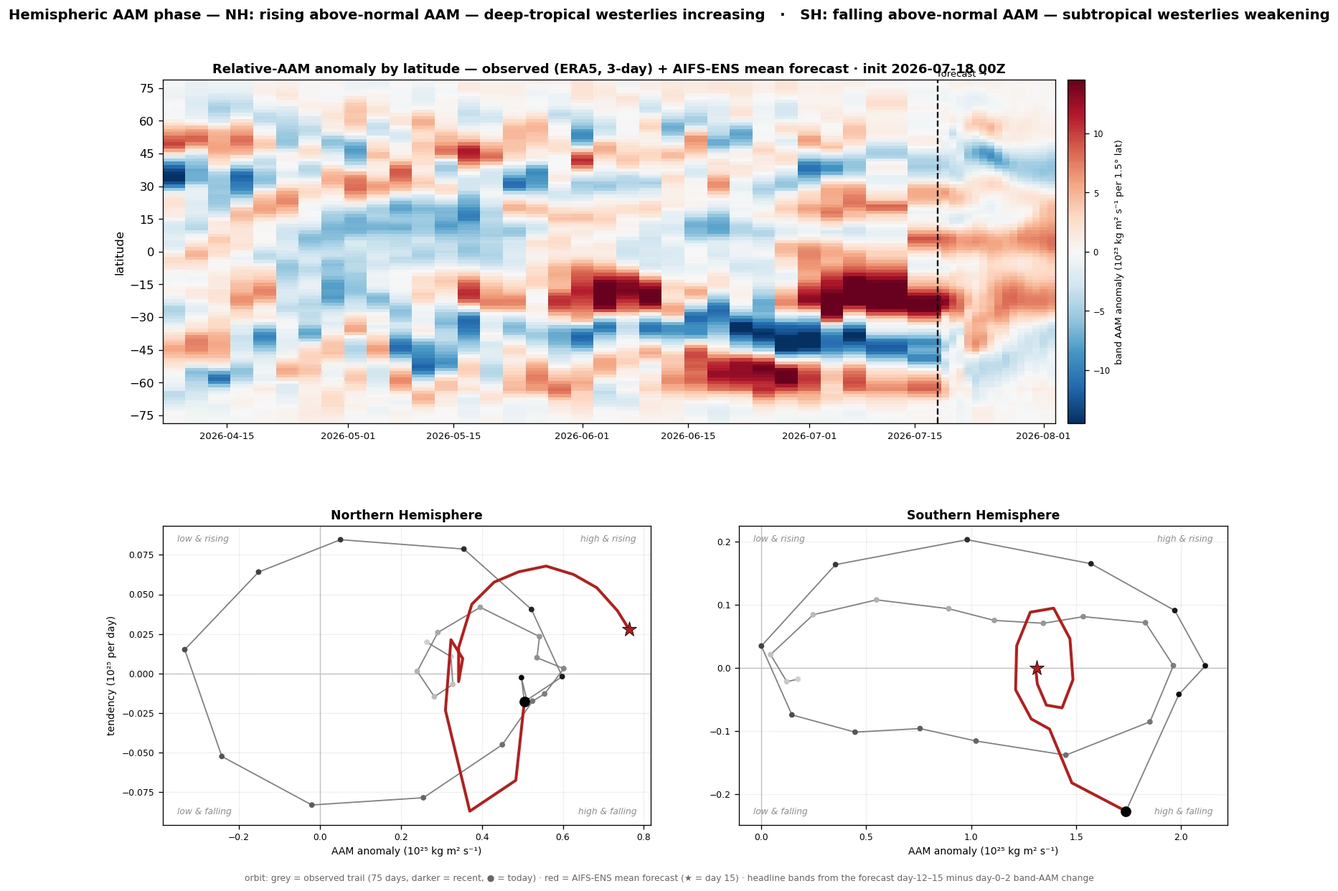
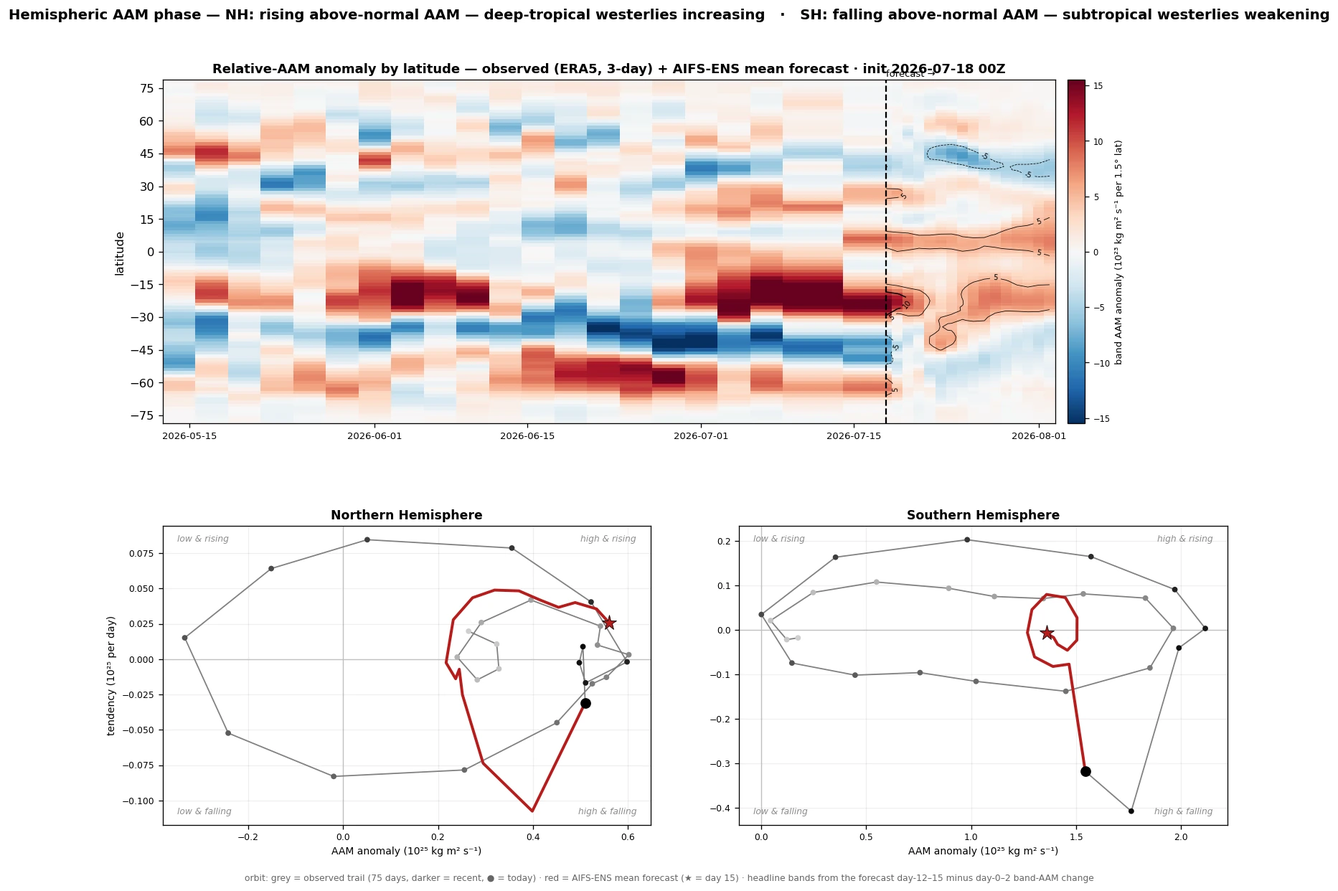
AAM phase: 60-day window (more forecast detail) + contours on the forecast segment

diff --git a/enso-analogs.html b/enso-analogs.html
@@ -564,7 +564,7 @@
         <h2>This Event vs. 1997, 2015 &amp; 2023</h2>
         <p>Niño-3.4 evolution (7-day running mean) through each event's development year and the next. Bold lines are <b>RONI</b>, the relative index (Niño-3.4 minus the 20&deg;S&ndash;20&deg;N tropical-mean anomaly), which removes the rising warming background so events decades apart are comparable; faint dotted lines are the raw <b>ONI</b> for reference. The current event is red. Note how 2015's record ONI shrinks toward 1997 once the background is removed.</p>
       </div>
-      <div class="img-wrap"><img src="assets/sst/events_nino34.webp?v=7ab0bfa0eba4" alt="Niño-3.4 RONI vs ONI evolution: current event vs 1997/2015/2023" loading="lazy"></div>
+      <div class="img-wrap"><img src="assets/sst/events_nino34.webp?v=604393ef9c7a" alt="Niño-3.4 RONI vs ONI evolution: current event vs 1997/2015/2023" loading="lazy"></div>
       <div class="chart-card-footer"><span class="chart-sources">OISST v2.1 daily &middot; 7-day mean &middot; RONI = Niño-3.4 &minus; 20&deg;S&ndash;20&deg;N mean</span></div>
     </div>
 
@@ -574,7 +574,7 @@
         <h2>El Niño Flavor: Niño Regions vs. Analogs</h2>
         <p>Relative Niño-1+2 / 3 / 3.4 / 4 anomalies (7-day mean, each minus the 20&deg;S&ndash;20&deg;N tropical mean) at the same calendar day as the latest data, for the current event and the three analogs. Removing the tropical background makes the regions comparable across events; strong eastern (1+2, 3) relative to central (4) marks an East-Pacific-flavored event.</p>
       </div>
-      <div class="img-wrap"><img src="assets/sst/events_bars.webp?v=7ab0bfa0eba4" alt="Relative Niño-region anomalies, current event vs analogs" loading="lazy"></div>
+      <div class="img-wrap"><img src="assets/sst/events_bars.webp?v=604393ef9c7a" alt="Relative Niño-region anomalies, current event vs analogs" loading="lazy"></div>
       <div class="chart-card-footer"><span class="chart-sources">OISST v2.1 daily &middot; 7-day mean &middot; relative to 20&deg;S&ndash;20&deg;N mean</span></div>
     </div>
 
@@ -584,7 +584,7 @@
         <h2>Matching-Phase SST Anomaly Maps</h2>
         <p>Relative SST anomaly (the area-weighted global-mean anomaly removed from each map) for the latest available week vs. the same calendar week in 1997, 2015 and 2023. Stripping the global mean removes the secular warming trend, so the ENSO spatial pattern is comparable across events that sat on very different baselines.</p>
       </div>
-      <div class="img-wrap"><img src="assets/sst/events_maps.webp?v=7ab0bfa0eba4" alt="Matching-phase relative SST anomaly maps (global-mean removed)" loading="lazy"></div>
+      <div class="img-wrap"><img src="assets/sst/events_maps.webp?v=604393ef9c7a" alt="Matching-phase relative SST anomaly maps (global-mean removed)" loading="lazy"></div>
       <div class="chart-card-footer"><span class="chart-sources">OISST v2.1 daily &middot; 7-day mean &middot; global-mean removed</span></div>
     </div>
 
@@ -594,7 +594,7 @@
         <h2>Subsurface Heat Content vs. Analogs</h2>
         <p>Equatorial Pacific upper-ocean (0&ndash;300 m) temperature anomaly (a heat-content proxy that leads the surface) through each event's development year and the next, current (bold red) overlaid on 1997, 2015 and 2023. The subsurface warm reservoir is the fuel for El Ni&ntilde;o; watch whether the current build-up keeps pace with the analogs.</p>
       </div>
-      <div class="img-wrap"><img src="assets/sst/subsurface_events_hc.webp?v=7ab0bfa0eba4" alt="Equatorial 0–300 m temperature-anomaly evolution: current vs 1997/2015/2023" loading="lazy"></div>
+      <div class="img-wrap"><img src="assets/sst/subsurface_events_hc.webp?v=604393ef9c7a" alt="Equatorial 0–300 m temperature-anomaly evolution: current vs 1997/2015/2023" loading="lazy"></div>
       <div class="chart-card-footer"><span class="chart-sources">NOAA/PMEL TAO/TRITON moorings &middot; anomaly vs 1991&ndash;2020 &middot; coverage varies by year</span></div>
     </div>
 
@@ -604,7 +604,7 @@
         <h2>Subsurface Heat Content vs. Analogs: De-trended</h2>
         <p>The same heat-content comparison with the 1991&ndash;2020 climate trend removed, so the four events sit on a common baseline. The net 0&ndash;300 m effect is modest (the subsurface warming and cooling trends largely cancel in the column average), but it eases the recent events (2023, current) down relative to 1997.</p>
       </div>
-      <div class="img-wrap"><img src="assets/sst/subsurface_events_hc_detrended.webp?v=7ab0bfa0eba4" alt="Equatorial 0–300 m temperature-anomaly evolution, climate trend removed: current vs 1997/2015/2023" loading="lazy"></div>
+      <div class="img-wrap"><img src="assets/sst/subsurface_events_hc_detrended.webp?v=604393ef9c7a" alt="Equatorial 0–300 m temperature-anomaly evolution, climate trend removed: current vs 1997/2015/2023" loading="lazy"></div>
       <div class="chart-card-footer"><span class="chart-sources">NOAA/PMEL TAO/TRITON moorings &middot; de-trended 1991&ndash;2020 &middot; coverage varies by year</span></div>
     </div>
 
@@ -615,7 +615,7 @@
         <p>Equatorial depth&times;longitude temperature anomaly at the same phase (~the latest data week) of each event. The eastward-deepening warm anomaly along the thermocline is the classic El Ni&ntilde;o subsurface signature; comparing its depth and intensity against 1997/2015/2023 gauges how loaded the ocean is now.</p>
         <p><b>Note:</b> TAO mooring coverage varies by year (triangles mark moorings reporting), so 1997 and 2023 have missing longitudes.</p>
       </div>
-      <div class="img-wrap"><img src="assets/sst/subsurface_events_xsec.webp?v=7ab0bfa0eba4" alt="Equatorial subsurface temperature-anomaly cross-sections: current vs 1997/2015/2023" loading="lazy"></div>
+      <div class="img-wrap"><img src="assets/sst/subsurface_events_xsec.webp?v=604393ef9c7a" alt="Equatorial subsurface temperature-anomaly cross-sections: current vs 1997/2015/2023" loading="lazy"></div>
       <div class="chart-card-footer"><span class="chart-sources">NOAA/PMEL TAO/TRITON moorings &middot; anomaly vs 1991&ndash;2020 &middot; 14-day mean &middot; coverage varies by year</span></div>
     </div>
 
@@ -626,7 +626,7 @@
         <p>The matching-phase cross-sections with the 1991&ndash;2020 climate trend removed. Because the trend has real depth&times;longitude structure (west-Pacific subsurface warming, eastern-thermocline cooling), de-trending reshapes the pattern more here than in the column-mean heat content above.</p>
         <p><b>Note:</b> TAO mooring coverage varies by year (triangles mark moorings reporting), so 1997 and 2023 have missing longitudes.</p>
       </div>
-      <div class="img-wrap"><img src="assets/sst/subsurface_events_xsec_detrended.webp?v=7ab0bfa0eba4" alt="Equatorial subsurface temperature-anomaly cross-sections, climate trend removed: current vs 1997/2015/2023" loading="lazy"></div>
+      <div class="img-wrap"><img src="assets/sst/subsurface_events_xsec_detrended.webp?v=604393ef9c7a" alt="Equatorial subsurface temperature-anomaly cross-sections, climate trend removed: current vs 1997/2015/2023" loading="lazy"></div>
       <div class="chart-card-footer"><span class="chart-sources">NOAA/PMEL TAO/TRITON moorings &middot; de-trended 1991&ndash;2020 &middot; 14-day mean &middot; coverage varies by year</span></div>
     </div>
 
@@ -636,8 +636,8 @@
         <h2>Low-Level Wind vs. Analogs: 850 hPa Hovm&ouml;ller</h2>
         <p>Equatorial (5&deg;S&ndash;5&deg;N) 850 hPa zonal wind through the <b>developing year</b> (Jan&rarr;Nov of year 0) of each El Ni&ntilde;o, aligned by calendar so the current event sits beside its analogs at the same phase. Westerly anomalies (red) over the Indian Ocean&ndash;west Pacific push warm water east and sustain a developing event; the historical analogs show those westerlies expanding eastward through the year. Left: detrended anomaly (long-term trend removed). Right: absolute wind (easterly trades vs. westerly bursts). 5-day smoothed.</p>
       </div>
-      <div class="img-wrap"><img src="assets/sst/u850_analogs_anom.webp?v=7ab0bfa0eba4" alt="850 hPa equatorial zonal-wind detrended-anomaly Hovmöllers: current 2026 vs 1982/1997/2015 developing years" loading="lazy"></div>
-      <div class="img-wrap"><img src="assets/sst/u850_analogs_abs.webp?v=7ab0bfa0eba4" alt="850 hPa equatorial zonal-wind absolute Hovmöllers: current 2026 vs 1982/1997/2015 developing years" loading="lazy"></div>
+      <div class="img-wrap"><img src="assets/sst/u850_analogs_anom.webp?v=604393ef9c7a" alt="850 hPa equatorial zonal-wind detrended-anomaly Hovmöllers: current 2026 vs 1982/1997/2015 developing years" loading="lazy"></div>
+      <div class="img-wrap"><img src="assets/sst/u850_analogs_abs.webp?v=604393ef9c7a" alt="850 hPa equatorial zonal-wind absolute Hovmöllers: current 2026 vs 1982/1997/2015 developing years" loading="lazy"></div>
       <div class="chart-card-footer"><span class="chart-sources">ERA5: WeatherBench2 1.5&deg; (1959&ndash;2023) + ARCO 0.25&deg; (current year) &middot; 5&deg;S&ndash;5&deg;N &middot; detrended vs day-of-year climatology &middot; updated daily</span></div>
     </div>
 
@@ -651,37 +651,37 @@
 
     <div class="chart-card">
       <div class="chart-card-header"><h2>Houston &amp; Dallas</h2></div>
-      <div class="img-wrap"><img src="assets/sst/citytemp/citytemp_houston.webp?v=7ab0bfa0eba4" alt="Houston daily temperature across super-El-Niño years vs 2026" loading="lazy"></div>
-      <div class="img-wrap"><img src="assets/sst/citytemp/citytemp_anom_houston.webp?v=7ab0bfa0eba4" alt="Houston detrended temperature anomaly across super-El-Niño years vs 2026" loading="lazy"></div>
-      <div class="img-wrap"><img src="assets/sst/citytemp/citytemp_dallas.webp?v=7ab0bfa0eba4" alt="Dallas daily temperature across super-El-Niño years vs 2026" loading="lazy"></div>
-      <div class="img-wrap"><img src="assets/sst/citytemp/citytemp_anom_dallas.webp?v=7ab0bfa0eba4" alt="Dallas detrended temperature anomaly across super-El-Niño years vs 2026" loading="lazy"></div>
+      <div class="img-wrap"><img src="assets/sst/citytemp/citytemp_houston.webp?v=604393ef9c7a" alt="Houston daily temperature across super-El-Niño years vs 2026" loading="lazy"></div>
+      <div class="img-wrap"><img src="assets/sst/citytemp/citytemp_anom_houston.webp?v=604393ef9c7a" alt="Houston detrended temperature anomaly across super-El-Niño years vs 2026" loading="lazy"></div>
+      <div class="img-wrap"><img src="assets/sst/citytemp/citytemp_dallas.webp?v=604393ef9c7a" alt="Dallas daily temperature across super-El-Niño years vs 2026" loading="lazy"></div>
+      <div class="img-wrap"><img src="assets/sst/citytemp/citytemp_anom_dallas.webp?v=604393ef9c7a" alt="Dallas detrended temperature anomaly across super-El-Niño years vs 2026" loading="lazy"></div>
       <div class="chart-card-footer"><span class="chart-sources">IEM ASOS (IAH, DFW) &middot; daily high&ndash;low from hourly obs &middot; anomaly detrended vs trend-adjusted 1973&ndash;present normal</span></div>
     </div>
 
     <div class="chart-card">
       <div class="chart-card-header"><h2>Phoenix &amp; Washington, DC</h2></div>
-      <div class="img-wrap"><img src="assets/sst/citytemp/citytemp_phoenix.webp?v=7ab0bfa0eba4" alt="Phoenix daily temperature across super-El-Niño years vs 2026" loading="lazy"></div>
-      <div class="img-wrap"><img src="assets/sst/citytemp/citytemp_anom_phoenix.webp?v=7ab0bfa0eba4" alt="Phoenix detrended temperature anomaly across super-El-Niño years vs 2026" loading="lazy"></div>
-      <div class="img-wrap"><img src="assets/sst/citytemp/citytemp_washington_dc.webp?v=7ab0bfa0eba4" alt="Washington DC daily temperature across super-El-Niño years vs 2026" loading="lazy"></div>
-      <div class="img-wrap"><img src="assets/sst/citytemp/citytemp_anom_washington_dc.webp?v=7ab0bfa0eba4" alt="Washington DC detrended temperature anomaly across super-El-Niño years vs 2026" loading="lazy"></div>
+      <div class="img-wrap"><img src="assets/sst/citytemp/citytemp_phoenix.webp?v=604393ef9c7a" alt="Phoenix daily temperature across super-El-Niño years vs 2026" loading="lazy"></div>
+      <div class="img-wrap"><img src="assets/sst/citytemp/citytemp_anom_phoenix.webp?v=604393ef9c7a" alt="Phoenix detrended temperature anomaly across super-El-Niño years vs 2026" loading="lazy"></div>
+      <div class="img-wrap"><img src="assets/sst/citytemp/citytemp_washington_dc.webp?v=604393ef9c7a" alt="Washington DC daily temperature across super-El-Niño years vs 2026" loading="lazy"></div>
+      <div class="img-wrap"><img src="assets/sst/citytemp/citytemp_anom_washington_dc.webp?v=604393ef9c7a" alt="Washington DC detrended temperature anomaly across super-El-Niño years vs 2026" loading="lazy"></div>
       <div class="chart-card-footer"><span class="chart-sources">IEM ASOS (PHX, DCA) &middot; daily high&ndash;low from hourly obs &middot; anomaly detrended vs trend-adjusted 1973&ndash;present normal</span></div>
     </div>
 
     <div class="chart-card">
       <div class="chart-card-header"><h2>New York City &amp; Boston</h2></div>
-      <div class="img-wrap"><img src="assets/sst/citytemp/citytemp_new_york_city.webp?v=7ab0bfa0eba4" alt="New York City daily temperature across super-El-Niño years vs 2026" loading="lazy"></div>
-      <div class="img-wrap"><img src="assets/sst/citytemp/citytemp_anom_new_york_city.webp?v=7ab0bfa0eba4" alt="New York City detrended temperature anomaly across super-El-Niño years vs 2026" loading="lazy"></div>
-      <div class="img-wrap"><img src="assets/sst/citytemp/citytemp_boston.webp?v=7ab0bfa0eba4" alt="Boston daily temperature across super-El-Niño years vs 2026" loading="lazy"></div>
-      <div class="img-wrap"><img src="assets/sst/citytemp/citytemp_anom_boston.webp?v=7ab0bfa0eba4" alt="Boston detrended temperature anomaly across super-El-Niño years vs 2026" loading="lazy"></div>
+      <div class="img-wrap"><img src="assets/sst/citytemp/citytemp_new_york_city.webp?v=604393ef9c7a" alt="New York City daily temperature across super-El-Niño years vs 2026" loading="lazy"></div>
+      <div class="img-wrap"><img src="assets/sst/citytemp/citytemp_anom_new_york_city.webp?v=604393ef9c7a" alt="New York City detrended temperature anomaly across super-El-Niño years vs 2026" loading="lazy"></div>
+      <div class="img-wrap"><img src="assets/sst/citytemp/citytemp_boston.webp?v=604393ef9c7a" alt="Boston daily temperature across super-El-Niño years vs 2026" loading="lazy"></div>
+      <div class="img-wrap"><img src="assets/sst/citytemp/citytemp_anom_boston.webp?v=604393ef9c7a" alt="Boston detrended temperature anomaly across super-El-Niño years vs 2026" loading="lazy"></div>
       <div class="chart-card-footer"><span class="chart-sources">IEM ASOS (LGA, BOS) &middot; daily high&ndash;low from hourly obs &middot; anomaly detrended vs trend-adjusted 1973&ndash;present normal</span></div>
     </div>
 
     <div class="chart-card">
       <div class="chart-card-header"><h2>Portland &amp; Seattle</h2></div>
-      <div class="img-wrap"><img src="assets/sst/citytemp/citytemp_portland_or.webp?v=7ab0bfa0eba4" alt="Portland OR daily temperature across super-El-Niño years vs 2026" loading="lazy"></div>
-      <div class="img-wrap"><img src="assets/sst/citytemp/citytemp_anom_portland_or.webp?v=7ab0bfa0eba4" alt="Portland OR detrended temperature anomaly across super-El-Niño years vs 2026" loading="lazy"></div>
-      <div class="img-wrap"><img src="assets/sst/citytemp/citytemp_seattle.webp?v=7ab0bfa0eba4" alt="Seattle daily temperature across super-El-Niño years vs 2026" loading="lazy"></div>
-      <div class="img-wrap"><img src="assets/sst/citytemp/citytemp_anom_seattle.webp?v=7ab0bfa0eba4" alt="Seattle detrended temperature anomaly across super-El-Niño years vs 2026" loading="lazy"></div>
+      <div class="img-wrap"><img src="assets/sst/citytemp/citytemp_portland_or.webp?v=604393ef9c7a" alt="Portland OR daily temperature across super-El-Niño years vs 2026" loading="lazy"></div>
+      <div class="img-wrap"><img src="assets/sst/citytemp/citytemp_anom_portland_or.webp?v=604393ef9c7a" alt="Portland OR detrended temperature anomaly across super-El-Niño years vs 2026" loading="lazy"></div>
+      <div class="img-wrap"><img src="assets/sst/citytemp/citytemp_seattle.webp?v=604393ef9c7a" alt="Seattle daily temperature across super-El-Niño years vs 2026" loading="lazy"></div>
+      <div class="img-wrap"><img src="assets/sst/citytemp/citytemp_anom_seattle.webp?v=604393ef9c7a" alt="Seattle detrended temperature anomaly across super-El-Niño years vs 2026" loading="lazy"></div>
       <div class="chart-card-footer"><span class="chart-sources">IEM ASOS (PDX, SEA) &middot; daily high&ndash;low from hourly obs &middot; anomaly detrended vs trend-adjusted 1973&ndash;present normal</span></div>
     </div>
 

diff --git a/enso-atmosphere.html b/enso-atmosphere.html
@@ -319,7 +319,7 @@
         <h2>Southern Oscillation Index Forecast</h2>
         <p>Extending the observed SOI forward: the same Troup SOI (the standardized Tahiti&minus;Darwin sea-level-pressure difference), here forecast from the combined AIFS-ENS + IFS-ENS ensemble (about 100 members). Observed values are from LongPaddock (Queensland Govt / BoM); the forecast is the Tahiti&minus;Darwin MSL from the ensembles, bias-corrected to the recent observed level. Bold lines are the 30-day running SOI; the faint daily series and shaded 10&ndash;90% band show the day-to-day spread. Sustained negative SOI (below &minus;7) is El Ni&ntilde;o-favorable; sustained positive (above +7) is La Ni&ntilde;a-favorable.</p>
       </div>
-      <div class="img-wrap"><img src="assets/sst/soi_forecast.webp?v=7ab0bfa0eba4" alt="Southern Oscillation Index: observed (LongPaddock/BoM) plus AIFS-ENS/IFS-ENS forecast" loading="lazy"></div>
+      <div class="img-wrap"><img src="assets/sst/soi_forecast.webp?v=604393ef9c7a" alt="Southern Oscillation Index: observed (LongPaddock/BoM) plus AIFS-ENS/IFS-ENS forecast" loading="lazy"></div>
       <div class="chart-card-footer"><span class="chart-sources">LongPaddock daily SOI (BoM, 1933&ndash;1992 base) &middot; forecast: ECMWF AIFS-ENS + IFS-ENS MSL &middot; updated each 00/12Z cycle</span></div>
     </div>
 
@@ -350,7 +350,7 @@
         <h2>Equatorial Pacific 10 m Wind Forecast</h2>
         <p>Forecast 10 m zonal-wind anomaly (5&deg;S&ndash;5&deg;N), longitude &times; forecast day, from the AIFS-ENS (AI) and ECMWF IFS-ENS (physics) ensemble means versus the ERA5 1991&ndash;2020 climatology. Westerly (red) anomalies along the equator favor El Ni&ntilde;o development; easterly (blue) anomalies favor La Ni&ntilde;a. Agreement between the AI and physics ensembles raises confidence.</p>
       </div>
-      <div class="img-wrap"><img src="assets/sst/eq_wind_hovmoller.webp?v=7ab0bfa0eba4" alt="Equatorial Pacific 10 m zonal-wind anomaly Hovmöller forecast (AIFS-ENS and IFS-ENS)" loading="lazy"></div>
+      <div class="img-wrap"><img src="assets/sst/eq_wind_hovmoller.webp?v=604393ef9c7a" alt="Equatorial Pacific 10 m zonal-wind anomaly Hovmöller forecast (AIFS-ENS and IFS-ENS)" loading="lazy"></div>
       <div class="chart-card-footer"><span class="chart-sources">ECMWF AIFS-ENS &amp; IFS-ENS (open data) &middot; anomaly vs ERA5 1991&ndash;2020 &middot; updated each 00/12Z cycle</span></div>
     </div>
 
@@ -418,7 +418,7 @@
         <h2>Atmospheric Angular Momentum</h2>
         <p>Relative AAM is the angular momentum carried by the winds, the atmosphere's total westerly momentum, &int;&nbsp;u&middot;cos&sup2;&phi; over the whole globe. It is dominated by the upper-tropospheric subtropical jets and the deep tropics (largest moment arm), shown here for the globe and each hemisphere from the AIFS-ENS winds on 14 pressure levels (10&ndash;1000&nbsp;hPa &mdash; the full column, validated against the 37-level ERA5 integral and GFZ's ESMGFZ wind-term series to ~1%). The top panel is this year's observed AAM (black) and the 15-day forecast (red) on the climatological annual cycle; the hemispheres are strongly out of phase (each peaks in its own winter). The bottom panel is the anomaly (departure from the 1991&ndash;2020 normal), which removes the seasonal cycle. El&nbsp;Ni&ntilde;o strengthens the subtropical jets and weakens the trades, so the atmosphere holds more westerly momentum; conservation then requires the solid Earth to slow, so AAM ties directly to the measured length of day. The <span style="color:#2e7d32"><b>green trace</b></span> is GFZ's independent ESMGFZ wind-term series (computed from ECMWF's operational analyses for the Earth-rotation community) &mdash; a continuous external check on this pipeline.</p>
       </div>
-      <div class="img-wrap"><img src="assets/sst/aam.webp?v=7ab0bfa0eba4" alt="Global and hemispheric atmospheric angular momentum: observed + AIFS-ENS forecast, absolute and anomaly" loading="lazy"></div>
+      <div class="img-wrap"><img src="assets/sst/aam.webp?v=604393ef9c7a" alt="Global and hemispheric atmospheric angular momentum: observed + AIFS-ENS forecast, absolute and anomaly" loading="lazy"></div>
       <div class="chart-card-footer"><span class="chart-sources">Forecast: ECMWF AIFS-ENS (open data, CC BY 4.0) &middot; climatology &amp; this-year observed: ERA5 (Copernicus C3S / ECMWF) &middot; updated daily</span></div>
     </div>
 
@@ -427,7 +427,7 @@
       <div class="chart-card-header">
         <h2>AAM Forecast Trend (run-to-run)</h2>
       </div>
-      <div class="img-wrap"><img src="assets/sst/aam_trend.webp?v=7ab0bfa0eba4" alt="Run-to-run trend of AIFS-ENS ensemble-mean AAM anomaly forecasts, global and hemispheric" loading="lazy"></div>
+      <div class="img-wrap"><img src="assets/sst/aam_trend.webp?v=604393ef9c7a" alt="Run-to-run trend of AIFS-ENS ensemble-mean AAM anomaly forecasts, global and hemispheric" loading="lazy"></div>
       <div class="chart-card-footer"><span class="chart-sources">ECMWF AIFS-ENS (open data, CC BY 4.0) &middot; anomaly vs ERA5 1991&ndash;2020 (Copernicus C3S) &middot; archived each cycle</span></div>
     </div>
 
@@ -437,7 +437,7 @@
         <h2>AAM Phase: Where the Momentum Is, and Where It&rsquo;s Going</h2>
         <p><b>Top</b>: relative AAM integrated in 1.5&deg; latitude bands &mdash; ~3 months observed (ERA5) plus the 15-day AIFS-ENS mean forecast &mdash; so poleward-propagating westerly anomalies and building subtropical momentum show as slanted warm streaks. <b>Bottom</b>: each hemisphere's trajectory through (AAM anomaly, tendency) phase space, the hemispheric analog of the Weickmann&ndash;Berry global wind oscillation orbit: grey trail = last 75 days, red = the forecast. The headline sentence is generated automatically from the forecast quadrant and the latitude band driving the change &mdash; e.g. <i>"NH: rising above-normal AAM &mdash; subtropical westerlies increasing."</i></p>
       </div>
-      <div class="img-wrap"><img src="assets/sst/aam_phase.webp?v=7ab0bfa0eba4" alt="Hemispheric AAM phase diagnostics: latitude-time anomaly heatmap and NH/SH phase-space orbits with forecast" loading="lazy"></div>
+      <div class="img-wrap"><img src="assets/sst/aam_phase.webp?v=604393ef9c7a" alt="Hemispheric AAM phase diagnostics: latitude-time anomaly heatmap and NH/SH phase-space orbits with forecast" loading="lazy"></div>
       <div class="chart-card-footer"><span class="chart-sources">ERA5 (local store) &middot; AIFS-ENS ensemble mean (open data, CC BY 4.0) &middot; clim: ERA5 1991&ndash;2020 &middot; updated daily</span></div>
     </div>
 
@@ -452,10 +452,10 @@
       </div>
       <iframe class="anim-embed torque" src="sst_anim.html?embed=1&amp;manifest=torque_manifest.json&amp;region=torque"
               title="AAM surface-torque anomaly animation (friction + mountain) over the AIFS-ENS forecast" loading="lazy"></iframe>
-      <div class="img-wrap"><img src="assets/sst/torque_timeseries.webp?v=7ab0bfa0eba4" alt="Hemispheric AAM torque budget time series (friction, mountain, sum) for NH and SH" loading="lazy"></div>
-      <div class="img-wrap"><img src="assets/sst/torque_ranges.webp?v=7ab0bfa0eba4" alt="Mountain-torque anomaly broken down by range (Himalaya, Rockies, Andes, Greenland, Antarctica, Alps)" loading="lazy"></div>
-      <div class="img-wrap"><img src="assets/sst/torque_seasonal.webp?v=7ab0bfa0eba4" alt="Seasonal cycle of the three AAM surface-torque terms (friction, mountain, GWD) by latitude, ERA5 1991-2020" loading="lazy"></div>
-      <div class="img-wrap"><img src="assets/sst/torque_seasonal_ts.webp?v=7ab0bfa0eba4" alt="Seasonal cycle of the integrated AAM torque terms (friction, mountain, GWD, sum) for Global/NH/SH, ERA5 1991-2020" loading="lazy"></div>
+      <div class="img-wrap"><img src="assets/sst/torque_timeseries.webp?v=604393ef9c7a" alt="Hemispheric AAM torque budget time series (friction, mountain, sum) for NH and SH" loading="lazy"></div>
+      <div class="img-wrap"><img src="assets/sst/torque_ranges.webp?v=604393ef9c7a" alt="Mountain-torque anomaly broken down by range (Himalaya, Rockies, Andes, Greenland, Antarctica, Alps)" loading="lazy"></div>
+      <div class="img-wrap"><img src="assets/sst/torque_seasonal.webp?v=604393ef9c7a" alt="Seasonal cycle of the three AAM surface-torque terms (friction, mountain, GWD) by latitude, ERA5 1991-2020" loading="lazy"></div>
+      <div class="img-wrap"><img src="assets/sst/torque_seasonal_ts.webp?v=604393ef9c7a" alt="Seasonal cycle of the integrated AAM torque terms (friction, mountain, GWD, sum) for Global/NH/SH, ERA5 1991-2020" loading="lazy"></div>
       <div class="chart-card-footer"><span class="chart-sources">ECMWF AIFS-ENS surface pressure (open data, CC BY 4.0) &middot; ERA5 orography + 1991–2020 torque climatology (Copernicus C3S, seasonal-cycle panel) &middot; daily means &middot; updated daily</span></div>
     </div>
 
@@ -504,7 +504,7 @@
       </div>
       <iframe class="anim-embed jets" src="sst_anim.html?embed=1&amp;manifest=jets_manifest.json&amp;region=jets"
               title="Subtropical jet forecast animation: zonal-mean wind anomaly cross-section, day 0-15 from AIFS-ENS" loading="lazy"></iframe>
-      <div class="img-wrap"><img src="assets/sst/jets.webp?v=7ab0bfa0eba4" alt="Subtropical jet monitor: zonal-mean wind cross-section anomaly and jet-core strength/latitude forecast vs ERA5 climatology" loading="lazy"></div>
+      <div class="img-wrap"><img src="assets/sst/jets.webp?v=604393ef9c7a" alt="Subtropical jet monitor: zonal-mean wind cross-section anomaly and jet-core strength/latitude forecast vs ERA5 climatology" loading="lazy"></div>
       <div class="chart-card-footer"><span class="chart-sources">ECMWF AIFS-ENS 13-level zonal wind, 51 members (open data, CC BY 4.0) &middot; clim: ERA5 1991&ndash;2020 harmonic day-of-year normal &plusmn;1&sigma; (WeatherBench2 / Copernicus C3S) &middot; updated daily</span></div>
     </div>
 

diff --git a/sst.html b/sst.html
@@ -214,7 +214,7 @@
     </div>
     <div id="dailyChart" class="plot" style="height:440px"></div>
     <div class="img-wrap" id="dailyFallback" hidden>
-      <img src="assets/sst/daily_indices.webp?v=7ab0bfa0eba4" alt="Daily Niño-3.4, tropical-mean and relative SST indices" loading="lazy">
+      <img src="assets/sst/daily_indices.webp?v=604393ef9c7a" alt="Daily Niño-3.4, tropical-mean and relative SST indices" loading="lazy">
     </div>
     <div class="chart-card-footer">
       <span class="chart-sources">NOAA OISST v2.1 daily &middot; cosine-weighted box means &middot; base 1991&ndash;2020 &middot; RONI scale: per-month &sigma;(ONI)/&sigma;(relative), CPC/ECMWF method</span>
@@ -232,7 +232,7 @@
     &plusmn;0.5&thinsp;&deg;C are El&nbsp;Ni&ntilde;o&nbsp;/&nbsp;La&nbsp;Ni&ntilde;a territory.</p>
     <div id="monthlyChart" class="plot" style="height:340px"></div>
     <div class="img-wrap" id="monthlyFallback" hidden>
-      <img src="assets/sst/roni.webp?v=7ab0bfa0eba4" alt="ONI and RONI monthly time series" loading="lazy">
+      <img src="assets/sst/roni.webp?v=604393ef9c7a" alt="ONI and RONI monthly time series" loading="lazy">
     </div>
     <div class="chart-card-footer">
       <span class="chart-sources">Computed from NOAA OISST v2.1 &middot; 3-month centered means &middot; newest season still accumulating</span>
@@ -278,7 +278,7 @@
       <h2>Daily SOI: the Current Event vs the Record</h2>
       <p><b>150 years of the Southern Oscillation, with today marked against the records.</b> <b>Top</b>: the Bureau of Meteorology's monthly Troup SOI computed one way from <b>1876 to the present</b> &mdash; monthly (light) and 3-month mean (bold), with dotted record lines: the all-time monthly extremes were set in Apr&nbsp;1905 (&minus;42.6) and Aug&nbsp;1917 (+34.8). <b>Middle</b>: the consistent <b>daily</b> record &mdash; LongPaddock's daily Troup index (10&middot;(&Delta;P&nbsp;&minus;&nbsp;m)/&sigma;, &Delta;P = Tahiti&nbsp;&minus;&nbsp;Darwin MSLP, fixed 1887&ndash;1989 base), June&nbsp;1991&ndash;present, as 30-day and 90-day running means with their own record max/min lines (1997&ndash;98 holds the 30-day minimum; 2010&ndash;11 the positive records). <b>Bottom</b>: the last 24 months with raw daily values as bars. Sustained values below &minus;8 are the classic Troup El&nbsp;Ni&ntilde;o threshold; the record lines show at a glance how the current excursion ranks in a century and a half of data.</p>
     </div>
-    <div class="img-wrap"><img src="assets/sst/soi_history.webp?v=7ab0bfa0eba4" alt="Daily SOI history: 30-day and 90-day running means with all-time record max/min lines" loading="lazy"></div>
+    <div class="img-wrap"><img src="assets/sst/soi_history.webp?v=604393ef9c7a" alt="Daily SOI history: 30-day and 90-day running means with all-time record max/min lines" loading="lazy"></div>
     <div class="chart-card-footer">
       <span class="chart-sources">Queensland Govt LongPaddock / BoM daily Troup SOI &middot; fixed 1887&ndash;1989 base &middot; updated each cycle</span>
     </div>
@@ -291,22 +291,22 @@
       <p>NOAA PSL's Multivariate ENSO Index v2 is the leading combined-EOF of five tropical-Pacific fields (sea-level pressure, SST, surface zonal and meridional wind, and OLR), but it is published only as an overlapping bimonthly value with a roughly five-week lag. This is a daily nowcast of it: a regression of the published MEI.v2 onto freely-available daily ENSO components (the Ni&ntilde;o-3.4 SST anomaly, the Southern Oscillation Index, and the equatorial 850-hPa zonal wind), driven forward each day. The grey steps are the official bimonthly MEI.v2; the red line is the daily estimate, with a &plusmn;0.30 leave-one-year-out cross-validation band (the fit reproduces MEI.v2 at R&nbsp;=&nbsp;0.94). The model is SST-weighted, so during a fast SST-led transition it can lead MEI's slower atmospheric components.</p>
     </div>
     <div class="img-wrap">
-      <img src="assets/sst/mei/mei_nowcast.webp?v=7ab0bfa0eba4"
+      <img src="assets/sst/mei/mei_nowcast.webp?v=604393ef9c7a"
            alt="Daily nowcast of the Multivariate ENSO Index version 2" loading="lazy">
     </div>
     <div class="img-wrap">
       <p class="img-label">Onset-year analogs: the current year against the major El Ni&ntilde;os</p>
-      <img src="assets/sst/mei/mei_analogs.webp?v=7ab0bfa0eba4"
+      <img src="assets/sst/mei/mei_analogs.webp?v=604393ef9c7a"
            alt="MEI.v2 onset-year analogs: 1982, 1997, 2015, 2023 vs the current nowcast" loading="lazy">
     </div>
     <div class="img-wrap">
       <p class="img-label">Full record since 1980</p>
-      <img src="assets/sst/mei/mei_history.webp?v=7ab0bfa0eba4"
+      <img src="assets/sst/mei/mei_history.webp?v=604393ef9c7a"
            alt="Full Multivariate ENSO Index v2 record since 1980 with the live nowcast tail" loading="lazy">
     </div>
     <div class="img-wrap">
       <p class="img-label">Out-of-sample skill: the 2015&ndash;16 El Ni&ntilde;o</p>
-      <img src="assets/sst/mei/mei_validation.webp?v=7ab0bfa0eba4"
+      <img src="assets/sst/mei/mei_validation.webp?v=604393ef9c7a"
            alt="Validation of the MEI.v2 nowcast over the 2015-16 El Niño" loading="lazy">
     </div>
     <div class="chart-card-footer">
@@ -588,7 +588,7 @@
       if (state.data) drawDaily();
     });
   });
-  fetch("assets/sst/data/enso_daily.json?v=7ab0bfa0eba4")
+  fetch("assets/sst/data/enso_daily.json?v=604393ef9c7a")
     .then(function (r) { if (!r.ok) throw 0; return r.json(); })
     .then(function (d) {
       state.data = d;

diff --git a/enso-forecasts.html b/enso-forecasts.html
@@ -570,11 +570,11 @@
   });
 
   Promise.all([
-    fetch("assets/sst/data/enso_forecast.json?v=7ab0bfa0eba4").then(function (r) {
+    fetch("assets/sst/data/enso_forecast.json?v=604393ef9c7a").then(function (r) {
       if (!r.ok) throw 0; return r.json(); }),
-    fetch("assets/sst/data/nino_history.json?v=7ab0bfa0eba4").then(function (r) {
+    fetch("assets/sst/data/nino_history.json?v=604393ef9c7a").then(function (r) {
       return r.ok ? r.json() : null; }).catch(function () { return null; }),
-    fetch("assets/sst/data/enso_daily.json?v=7ab0bfa0eba4").then(function (r) {
+    fetch("assets/sst/data/enso_daily.json?v=604393ef9c7a").then(function (r) {
       return r.ok ? r.json() : null; }).catch(function () { return null; }),
   ]).then(function (res) {
     state.fc = res[0]; state.hist = res[1]; state.dailyFeed = res[2];

diff --git a/scripts/mjo/src/aam_phase.py b/scripts/mjo/src/aam_phase.py
@@ -38,7 +38,7 @@ REF = Path(__file__).resolve().parent.parent / "data" / "reference"
 DENS_CLIM = REF / "aam_density_clim.nc"          # (doy, lev13, lat1.5°) per-band
 LATBAND_HIST = REF / "aam_latband_history.nc"    # incrementally cached observed rows
 LEVELS13 = [50, 100, 150, 200, 250, 300, 400, 500, 600, 700, 850, 925, 1000]
-OBS_DAYS = 96                                    # observed window (3-day steps)
+OBS_DAYS = 60                                    # observed window (3-day steps)
 DSCALE = 1e23                                    # heatmap units
 
 
@@ -231,6 +231,11 @@ def main() -> int:
     lim = max(float(np.nanpercentile(np.abs(z), 99)), 1.0)
     pm = ax.pcolormesh(tall, latc_show, z.T, cmap="RdBu_r", vmin=-lim, vmax=lim,
                        shading="nearest")
+    # contours over the forecast segment: key anomaly values for readability
+    cs = ax.contour(fvalid, latc_show, fc_anom.T, levels=[-10, -5, 5, 10],
+                    colors="k", linewidths=[0.9, 0.5, 0.5, 0.9],
+                    negative_linestyles="dashed")
+    ax.clabel(cs, levels=[-10, -5, 5, 10], fmt="%d", fontsize=6, inline=True)
     ax.axvline(init, color="k", lw=1.4, ls="--")
     ax.text(init, latc_show[-1] + 1.5, "forecast →", fontsize=8, va="bottom", ha="left")
     ax.set_yticks(range(-75, 76, 15))
